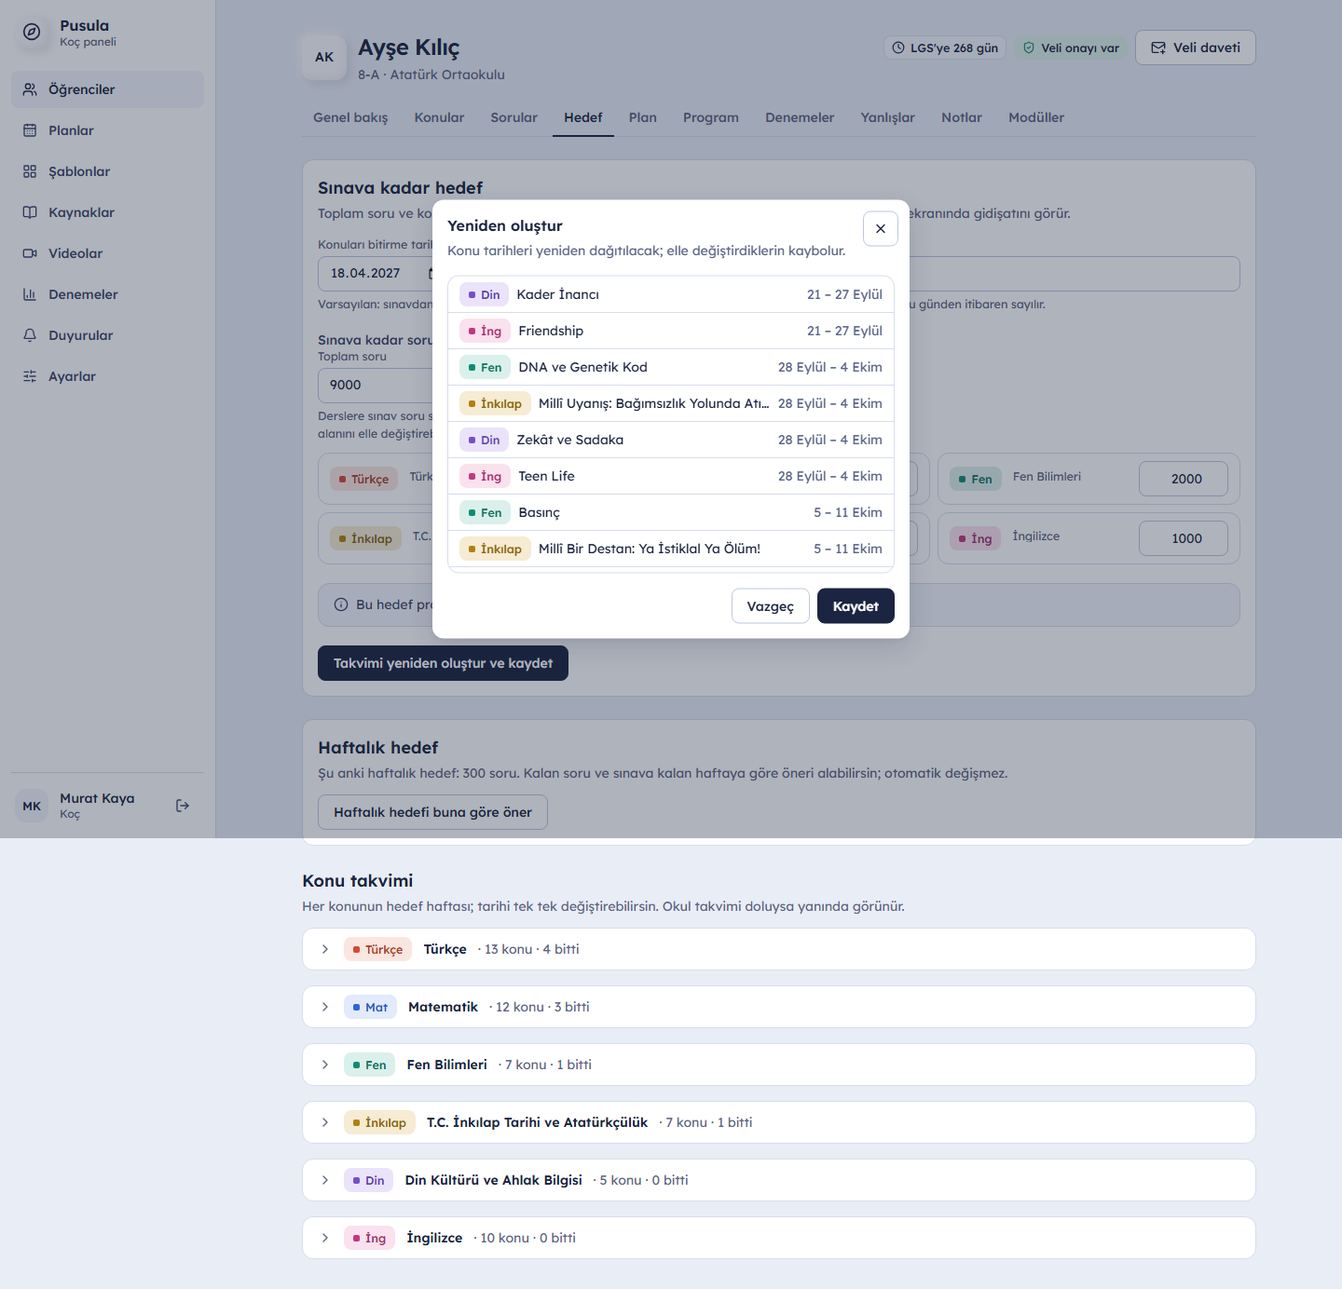
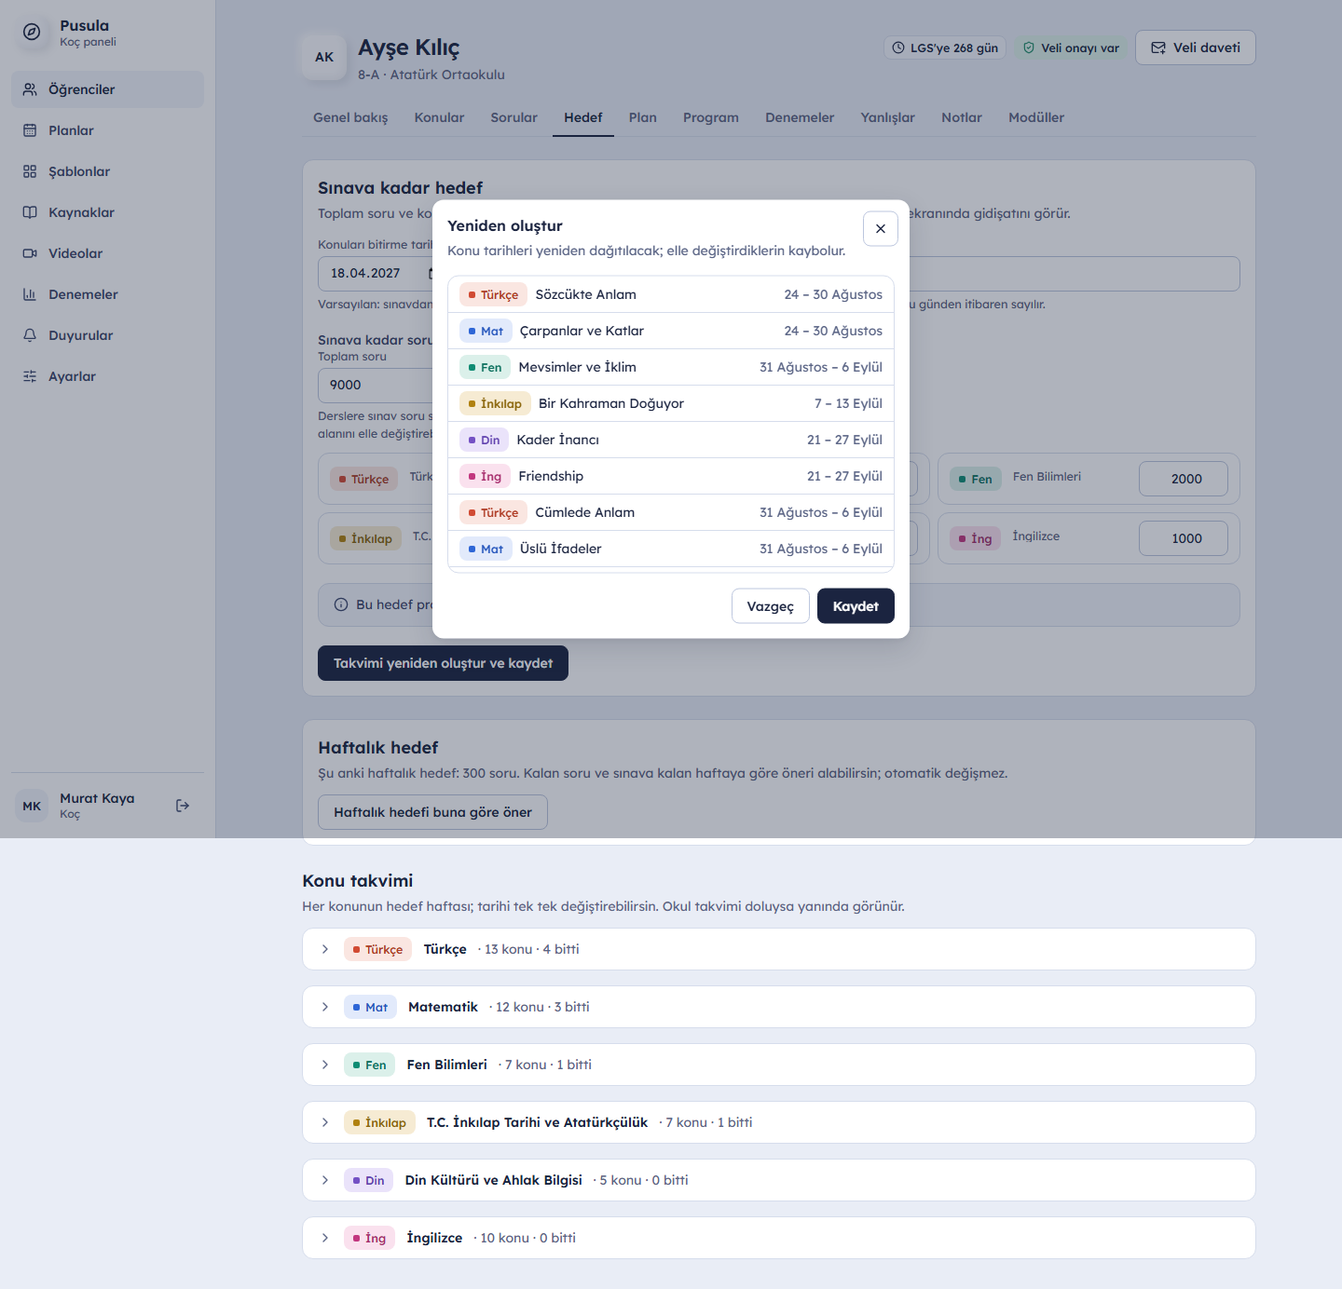
fix(strategy, goals): geri planlama bitmiş konulara da hedef verir — backPlanTopics tüm ünite konularını sıraya alır (bitmiş yuva tüketir), bitmişin hedefi completedAt günü (aralığa kırpılır, İstanbul günü), yoksa yuva tarihi; TargetForm completedAt geçirir; K2 ders tablosu sütunu 'Konu (bitti / bug

Changed region(s): [[0.3438, 0.2175, 0.6562, 0.435]]

diff --git a/src/lib/strategy/back-plan.ts b/src/lib/strategy/back-plan.ts
@@ -1,14 +1,16 @@
 import { TZDate } from "@date-fns/tz";
 import { addDays, differenceInCalendarDays } from "date-fns";
-import { TIME_ZONE, toDateKey } from "@/lib/dates";
+import { TIME_ZONE, toDateKey, toIstanbul } from "@/lib/dates";
 
 /**
- * Geri planlama (09-faz5-strateji.md §2 Parça 2, karar B5): bitmemiş konular
+ * Geri planlama (09-faz5-strateji.md §2 Parça 2, karar B5): tüm ünite konuları (bitmişler dahil)
  * `[startsOn, finishBy]` aralığına gün çözünürlüğünde eşit yayılır. Sıra: okul tarihi dolu olanlar
  * tarih sırasıyla önce, kalanlar dersler arası sıra-sıra (Türkçe 1, Mat 1, Fen 1, …, Türkçe 2, …).
  * Okul kelepçesi: okul tarihi olan konunun hedefi okul tarihinden (haftasından) önce olamaz —
  * `max(yayılım, okul)`, `finishBy` ile sınırlı; sıralama ve diğer konuların yayılımı değişmez. Koç
- * tek tek düzenleyerek yine öne alabilir. Saf; `features/*` import etmez.
+ * tek tek düzenleyerek yine öne alabilir. Bitmiş konu sıradaki yerini (yuvasını) alır; hedefi
+ * `completedAt` varsa o gün (aralığa kırpılır: beklenen sayımına doğal girer, "Hedef yok" satırı
+ * kalmaz), yoksa yuvasının tarihi. Saf; `features/*` import etmez.
  */
 
 export type BackPlanTopic = {
@@ -18,6 +20,8 @@ export type BackPlanTopic = {
   topicSortOrder: number;
   schoolFinishOn: string | null;
   done: boolean;
+  /** Bitiş zaman damgası (ISO; `student_topic_progress.completed_at`); bitmemişse ya da yoksa null. */
+  completedAt: string | null;
 };
 
 export type TopicTargetDate = { topicId: string; targetOn: string };
@@ -51,23 +55,28 @@ export function backPlanTopics(input: {
   finishBy: string;
 }): TopicTargetDate[] {
   if (input.finishBy < input.startsOn) return [];
-  const pending = input.topics.filter((t) => !t.done);
-  const withSchool = pending
+  const withSchool = input.topics
     .filter((t) => t.schoolFinishOn !== null)
     .sort((a, b) => a.schoolFinishOn!.localeCompare(b.schoolFinishOn!) || bySubjectThenTopic(a, b));
-  const ordered = [...withSchool, ...roundRobin(pending.filter((t) => t.schoolFinishOn === null))];
+  const ordered = [
+    ...withSchool,
+    ...roundRobin(input.topics.filter((t) => t.schoolFinishOn === null)),
+  ];
   const n = ordered.length;
   if (n === 0) return [];
 
   const start = new TZDate(input.startsOn, TIME_ZONE);
   const days = differenceInCalendarDays(new TZDate(input.finishBy, TIME_ZONE), start);
+  const clampToRange = (date: string) =>
+    date < input.startsOn ? input.startsOn : date > input.finishBy ? input.finishBy : date;
   return ordered.map((t, i) => {
+    if (t.done && t.completedAt !== null) {
+      return { topicId: t.topicId, targetOn: clampToRange(toDateKey(toIstanbul(t.completedAt))) };
+    }
     const spread = toDateKey(addDays(start, Math.floor(((i + 1) * days) / n)));
     const clamped =
       t.schoolFinishOn !== null && t.schoolFinishOn > spread
-        ? t.schoolFinishOn < input.finishBy
-          ? t.schoolFinishOn
-          : input.finishBy
+        ? clampToRange(t.schoolFinishOn)
         : spread;
     return { topicId: t.topicId, targetOn: clamped };
   });

diff --git a/src/lib/strategy/back-plan.test.ts b/src/lib/strategy/back-plan.test.ts
@@ -14,6 +14,7 @@ const t = (
   topicSortOrder,
   schoolFinishOn: null,
   done: false,
+  completedAt: null,
   ...over,
 });
 
@@ -37,19 +38,44 @@ describe("backPlanTopics", () => {
     ]);
   });
 
-  it("okul tarihi dolu konular tarih sırasıyla önce gelir; bitmiş konular dışarıda", () => {
+  it("okul tarihi dolu konular tarih sırasıyla önce gelir", () => {
     const out = backPlanTopics({
       topics: [
         t("t1", "tr", 1, 1),
         t("m1", "mat", 2, 1, { schoolFinishOn: "2026-09-10" }),
         t("f1", "fen", 3, 1, { schoolFinishOn: "2026-09-07" }),
-        t("t2", "tr", 1, 2, { done: true }),
       ],
       startsOn: "2026-09-14",
       finishBy: "2026-09-17", // 3 gün, 3 konu → 1, 2, 3. gün (okul tarihleri geçmiş, kelepçe yok)
     });
     expect(out.map((o) => o.topicId)).toEqual(["f1", "m1", "t1"]);
     expect(out.map((o) => o.targetOn)).toEqual(["2026-09-15", "2026-09-16", "2026-09-17"]);
+  });
+
+  it("bitmiş konu sıradaki yuvasını alır; hedefi completedAt günü (aralığa kırpılır), yoksa yuva", () => {
+    const out = backPlanTopics({
+      topics: [
+        t("t1", "tr", 1, 1, { done: true, completedAt: "2026-09-15T20:30:00+03:00" }),
+        t("t2", "tr", 1, 2, { done: true, completedAt: "2026-09-01T10:00:00+03:00" }), // başlangıçtan önce
+        t("t3", "tr", 1, 3, { done: true }), // completedAt yok → yuva
+        t("t4", "tr", 1, 4),
+      ],
+      startsOn: "2026-09-14",
+      finishBy: "2026-09-22", // 8 gün, 4 konu → 2, 4, 6, 8. gün
+    });
+    expect(out).toEqual([
+      { topicId: "t1", targetOn: "2026-09-15" },
+      { topicId: "t2", targetOn: "2026-09-14" },
+      { topicId: "t3", targetOn: "2026-09-20" },
+      { topicId: "t4", targetOn: "2026-09-22" }, // bitmişler yuva tükettiği için son yuva
+    ]);
+    // completedAt UTC gece yarısı sınırı İstanbul gününe göre okunur (21:30Z = ertesi gün 00:30 İstanbul).
+    const edge = backPlanTopics({
+      topics: [t("a", "s", 1, 1, { done: true, completedAt: "2026-09-15T21:30:00Z" })],
+      startsOn: "2026-09-14",
+      finishBy: "2026-09-30",
+    });
+    expect(edge).toEqual([{ topicId: "a", targetOn: "2026-09-16" }]);
   });
 
   it("okul kelepçesi: hedef okul tarihinden önce olamaz; finishBy ile sınırlı; diğerleri değişmez", () => {
@@ -93,7 +119,7 @@ describe("backPlanTopics", () => {
     expect(same.map((o) => o.targetOn)).toEqual(["2026-09-14", "2026-09-14"]);
   });
 
-  it("bitiş başlangıçtan önce ya da bitmemiş konu yoksa boş dizi", () => {
+  it("bitiş başlangıçtan önce ya da konu yoksa boş dizi", () => {
     expect(
       backPlanTopics({
         topics: [t("a", "s", 1, 1)],
@@ -101,12 +127,8 @@ describe("backPlanTopics", () => {
         finishBy: "2026-09-13",
       }),
     ).toEqual([]);
-    expect(
-      backPlanTopics({
-        topics: [t("a", "s", 1, 1, { done: true })],
-        startsOn: "2026-09-14",
-        finishBy: "2026-10-14",
-      }),
-    ).toEqual([]);
+    expect(backPlanTopics({ topics: [], startsOn: "2026-09-14", finishBy: "2026-10-14" })).toEqual(
+      [],
+    );
   });
 });

diff --git a/src/lib/strategy/pace.ts b/src/lib/strategy/pace.ts
@@ -6,7 +6,9 @@ import { formatCount, formatPossessive, formatSigned, withUnit } from "@/lib/for
 /**
  * Gidişat (09 §2 Parça 2, §3.1 tanımları; net takvim konumu): bitmiş = completed | mastered
  * (çağıran `done` verir); beklenen = hedefi bugün ya da öncesi olan konular (bitmiş olsun olmasın;
- * hedefsiz bitmiş konular takvimin önündedir, beklenene girmez); geride = max(0, beklenen − bitmiş);
+ * geri planlama bitmiş konuya da hedef verir — `completedAt` günü — bu yüzden yeniden üretimden sonra
+ * bitmişler beklenene girer; hedefinden önce bitirilen ya da hedefsiz bitmiş konu takvimin önündedir,
+ * beklenene girmez); geride = max(0, beklenen − bitmiş);
  * ileride = max(0, bitmiş − beklenen); hız = son `windowDays` günde biten × 7 / pencere. Konu
  * bazlı "hedefi geçti" bilgisi listede ayrıca verilir. Saf; `features/*` import etmez.
  */

diff --git a/src/lib/strategy/pace.test.ts b/src/lib/strategy/pace.test.ts
@@ -38,8 +38,9 @@ describe("topicPace", () => {
     expect(paceLabel(p, true)).toBe(`${MINUS}3${NBSP}konu`);
   });
 
-  it("hedefsiz bitmiş konular takvimin önündedir: beklenene girmez, ileriye sayılır", () => {
+  it("hedefsiz bitmiş konular (ör. hedef kurulduktan sonra şablona eklenen) takvimin önündedir: beklenene girmez, ileriye sayılır", () => {
     // 9 bitmiş (hedefsiz), 4 hedefi geçmiş bitmemiş konu → net +5 (çelişkili "9 bitti, 4 geride" yok).
+    // Yeniden üretim bitmişlere completedAt günü hedef verdiği için olağan durumda bitmişler beklenene girer.
     const p = topicPace(
       [
         ...Array.from({ length: 9 }, (_, i) => t(`d${i}`, { done: true, completedAt: ago(50) })),

diff --git a/src/features/goals/components/subject-pace-table.tsx b/src/features/goals/components/subject-pace-table.tsx
@@ -38,7 +38,9 @@ export function SubjectPaceTable({ targets, pace }: { targets: StudentTargets; p
           <thead className="text-left text-micro-lg text-ink-500">
             <tr className="border-b border-line">
               <th className="py-2 pr-3 font-medium">Ders</th>
-              <th className="px-3 py-2 text-right font-medium">Konu (bitti / planlanan)</th>
+              <th className="px-3 py-2 text-right font-medium">
+                Konu (bitti / bugüne kadar hedeflenen)
+              </th>
               <th className="px-3 py-2 text-right font-medium">Soru (gerçekleşen / hedef)</th>
               <th className="py-2 pl-3 font-medium">Tahmini bitiş</th>
             </tr>

diff --git a/src/features/goals/components/target-form.tsx b/src/features/goals/components/target-form.tsx
@@ -112,6 +112,7 @@ export function TargetForm({
         topicSortOrder: t.sortOrder,
         schoolFinishOn: t.schoolFinishOn,
         done: t.done,
+        completedAt: t.completedAt,
       })),
       startsOn: values.startsOn,
       finishBy: values.topicsFinishBy,

diff --git a/docs/09-faz5-strateji.md b/docs/09-faz5-strateji.md
@@ -124,7 +124,7 @@ student_topic_targets (
 
 | Fonksiyon | Tür | Ne yapar |
 |---|---|---|
-| `set_student_targets(p_student_id uuid, p_topics_finish_by date, p_starts_on date, p_subject_targets jsonb, p_topic_targets jsonb)` | security definer; ilk satır `is_coach_of` | Tek transaction: `students.topics_finish_by / target_starts_on` günceller; `student_subject_targets` satırlarını payload ile değiştirir (`[{subject_id, questions}]`; payload'da olmayan ders silinir); `student_topic_targets` upsert (`[{topic_id, target_on}]`) ve payload'da olmayan satırlar silinir (yeniden üretimde bitmiş konuların eski hedefi temizlenir). Konu/ders öğrencinin şablonunda değilse `invalid_target` hatası, hiçbir şey yazılmaz. Döner `{subjects int, topics int}` |
+| `set_student_targets(p_student_id uuid, p_topics_finish_by date, p_starts_on date, p_subject_targets jsonb, p_topic_targets jsonb)` | security definer; ilk satır `is_coach_of` | Tek transaction: `students.topics_finish_by / target_starts_on` günceller; `student_subject_targets` satırlarını payload ile değiştirir (`[{subject_id, questions}]`; payload'da olmayan ders silinir); `student_topic_targets` upsert (`[{topic_id, target_on}]`) ve payload'da olmayan satırlar silinir (yeniden üretimde bitmişler dahil tüm ünite konuları payload'dadır; şablondan kalkan konunun satırı temizlenir). Konu/ders öğrencinin şablonunda değilse `invalid_target` hatası, hiçbir şey yazılmaz. Döner `{subjects int, topics int}` |
 
 Tek konunun tarihini düzenlemek RPC gerektirmez: koç `student_topic_targets` satırını RLS ile günceller (`updateTopicTarget` eylemi, tek tablo). Haftalık hedef önerisi (karar B13) mevcut `goals` yoluyla yazılır (`setGoals`), otomatik değil.
 
@@ -209,13 +209,15 @@ export function schoolLagWeeks(schoolFinishOn: string, today: string): number;  
 // src/lib/strategy/back-plan.ts
 export function backPlanTopics(input: {
   topics: readonly { topicId: string; subjectId: string; subjectSortOrder: number; topicSortOrder: number;
-                     schoolFinishOn: string | null; done: boolean }[];
+                     schoolFinishOn: string | null; done: boolean; completedAt: string | null }[];
   startsOn: string; finishBy: string;
 }): { topicId: string; targetOn: string }[];
-// bitmemiş konular; sıra: schoolFinishOn dolu olanlar tarih sırasıyla önce, sonra dersler arası sıra-sıra
+// tüm ünite konuları (bitmişler dahil; Faz 5 kapanış düzeltmesi); sıra: schoolFinishOn dolu olanlar tarih sırasıyla önce, sonra dersler arası sıra-sıra
 // (Türkçe 1, Mat 1, Fen 1, …, Türkçe 2, …); [startsOn, finishBy] arasına eşit yayılım (i × gün / n, pazartesiye
 // yuvarlanmaz; gün çözünürlüğü); okul kelepçesi (karar B5, güncel): okul tarihi olan konunun hedefi
 // max(yayılım, okul tarihi), finishBy ile sınırlı — sıralama ve diğer konuların yayılımı değişmez, koç tek tek öne alabilir;
+// bitmiş konu sıradaki yuvasını alır (yayılım n = tüm konular); hedefi completedAt varsa o gün (aralığa kırpılır), yoksa yuva
+// tarihi → beklenen sayımına doğal girer, "Hedef yok" satırı kalmaz, ders tablosunda bugüne kadar hedeflenen ≥ bitti;
 // finishBy < startsOn → boş dizi (form zaten engeller)
 
 // src/lib/strategy/split.ts
@@ -253,7 +255,7 @@ export function paceSentence(p: TopicPace, hasTargets: boolean): string;
 export function paceLabel(p: Pick<TopicPace, "overdue" | "ahead">, hasTargets: boolean): string;   // K1: "−3 konu" · "+2 konu" · "Uyumlu" · "—"
 ```
 
-Testler: sıralama (okul tarihi önce, sıra-sıra), eşit yayılım uçları, bitmiş konu dışarıda; dağılımın toplamı ve kalan yöntemi; gerçekçilik sığıyor/sığmıyor ve hafta tabanı 1; gidişat: geride/ileride/uyumlu/hedefsiz, hız 0, pencere sınırı, sınav tarihi yok (shortfall 0, projected null).
+Testler: sıralama (okul tarihi önce, sıra-sıra), eşit yayılım uçları, bitmiş konu yuva alır ve completedAt günü / yuva tarihi (aralığa kırpma, İstanbul günü); dağılımın toplamı ve kalan yöntemi; gerçekçilik sığıyor/sığmıyor ve hafta tabanı 1; gidişat: geride/ileride/uyumlu/hedefsiz, hız 0, pencere sınırı, sınav tarihi yok (shortfall 0, projected null).
 
 **Kabul:** Koç hedefi kurunca 54 konu tarihi yazılır (pgTAP + e2e); gerçekçilik cümlesi program değişince değişir (e2e); öğrenci Bugün'de tek cümle + ince çubuk, uyarı rengi yok (e2e + ekran görüntüsü); K1 "Takvim" sütunu ve K2 tablo dolu (e2e); haftalık hedef önerisi düğmeyle uygulanır (e2e); saf fonksiyonların her dalı birim testli; `pnpm check` + `pnpm db:test` yeşil.
 
@@ -330,7 +332,7 @@ export type Placement = { dayOfWeek: number | null; date?: string; suggestion: S
 | `pace.ts` | `topicPace`, `subjectPace`, `paceSentence`, `paceLabel` | topics (Bugün kartı), core (K1 sütunu), goals/analytics (K2) |
 | `mix.ts` | `mixCategoryOf`, `allocateByMix` | analytics |
 
-Hepsi yapısal tip alır (`features/*` import etmez), tarih hesapları `lib/dates` ile (İstanbul, hafta pazartesi), metinler `lib/format` ile. Tanımlar tek yerde (net takvim konumu; 2026-09-18 düzeltmesi): **bitmiş** = `completed | mastered`; **beklenen** = hedefi bugün ya da öncesi olan konular (bitmiş olsun olmasın; hedefsiz bitmiş konular takvimin önündedir, beklenene girmez); **geride** = max(0, beklenen − bitmiş); **ileride** = max(0, bitmiş − beklenen); **hız** = son `pace_window_days`'de biten konu × 7 / pencere. Konu bazlı "hedefi geçti" (hedefi bugün ya da öncesi ve bitmemiş) yalnızca Hedef sekmesindeki listede rozet ve ders özetindeki "N gecikmiş" sayısıdır; gidişat cümlesi, K1 sütunu ve K2 kutusu net konumu kullanır ("9 konu bitmiş ama 4 konu geride" gibi çelişkili durum yok).
+Hepsi yapısal tip alır (`features/*` import etmez), tarih hesapları `lib/dates` ile (İstanbul, hafta pazartesi), metinler `lib/format` ile. Tanımlar tek yerde (net takvim konumu; 2026-09-18 düzeltmesi): **bitmiş** = `completed | mastered`; **beklenen** = hedefi bugün ya da öncesi olan konular (bitmiş olsun olmasın; geri planlama bitmişlere de hedef verdiği — `completed_at` günü — için yeniden üretimden sonra bitmişler beklenene girer; hedefinden önce bitirilen ya da hedefsiz bitmiş konu takvimin önündedir, beklenene girmez); **geride** = max(0, beklenen − bitmiş); **ileride** = max(0, bitmiş − beklenen); **hız** = son `pace_window_days`'de biten konu × 7 / pencere. Konu bazlı "hedefi geçti" (hedefi bugün ya da öncesi ve bitmemiş) yalnızca Hedef sekmesindeki listede rozet ve ders özetindeki "N gecikmiş" sayısıdır; gidişat cümlesi, K1 sütunu ve K2 kutusu net konumu kullanır ("9 konu bitmiş ama 4 konu geride" gibi çelişkili durum yok). K2 ders tablosu sütunu "Konu (bitti / bugüne kadar hedeflenen)": ikinci sayı beklenen; bitmişler hedefli olduğu için ≥ bitti. Faz 5 kapanış düzeltmesi (2026-09-18): önceki sürüm bitmiş konulara hedef vermiyordu → "4 / 0" satırları, listede "Hedef yok", her bitmiş konu ileride sayılıyordu ("takvimin 9 konu ilerisinde").
 
 ### 3.2 Yazım ve renk
 

diff --git a/docs/03-veri-modeli.md b/docs/03-veri-modeli.md
@@ -396,7 +396,7 @@ student_topic_targets (
 -- index (topic_id), (created_by)
 ```
 
-RLS: standart öğrenci verisi kalıbı (§5.2): öğrenci S, koç S I U D (`is_coach_of`; `student_topic_targets.created_by` kendisi), veli S, owner tümü; tablo yetkisi `authenticated` S I U D. `students.topics_finish_by / target_starts_on` kolon grant'ı yok → yalnızca `set_student_targets` (security definer) yazar (§5.3 seçenek (a)); `wake_start / wake_end` kolon grant'ı var (koç Program sekmesinden, `setWakeWindow`). Gidişat tanımları (`lib/strategy/pace.ts`, net takvim konumu): bitmiş = `completed | mastered`; beklenen = hedefi bugün ya da öncesi olan konular (bitmiş olsun olmasın; hedefsiz bitmiş konular beklenene girmez); geride = max(0, beklenen − bitmiş); ileride = max(0, bitmiş − beklenen); hız = son `strategy.pace_window_days`'de biten × 7 / pencere. Geri planlama (`lib/strategy/back-plan.ts`) okul tarihi olan konunun hedefini okul tarihinden önceye koymaz (karar B5, kelepçe; bitiş tarihiyle sınırlı). Görünümler `faz5b_pace_net` ile bu tanıma geçti.
+RLS: standart öğrenci verisi kalıbı (§5.2): öğrenci S, koç S I U D (`is_coach_of`; `student_topic_targets.created_by` kendisi), veli S, owner tümü; tablo yetkisi `authenticated` S I U D. `students.topics_finish_by / target_starts_on` kolon grant'ı yok → yalnızca `set_student_targets` (security definer) yazar (§5.3 seçenek (a)); `wake_start / wake_end` kolon grant'ı var (koç Program sekmesinden, `setWakeWindow`). Gidişat tanımları (`lib/strategy/pace.ts`, net takvim konumu): bitmiş = `completed | mastered`; beklenen = hedefi bugün ya da öncesi olan konular (bitmiş olsun olmasın); geride = max(0, beklenen − bitmiş); ileride = max(0, bitmiş − beklenen); hız = son `strategy.pace_window_days`'de biten × 7 / pencere. Geri planlama bitmiş konulara da hedef yazar (sıradaki yuvasını alır; hedef `completed_at` günü, yoksa yuva tarihi; 2026-09-18 Faz 5 kapanış düzeltmesi), bu yüzden yeniden üretimden sonra bitmişler beklenene girer, ders tablosunda "bugüne kadar hedeflenen" ≥ bitti olur ve listede "Hedef yok" satırı kalmaz; hedefinden önce bitirilen konu hedef tarihi gelene kadar ileridedir. Geri planlama (`lib/strategy/back-plan.ts`) okul tarihi olan konunun hedefini okul tarihinden önceye koymaz (karar B5, kelepçe; bitiş tarihiyle sınırlı). Görünümler `faz5b_pace_net` ile bu tanıma geçti.
 
 ### 4.4c Notlar, Duyurular (taslak; ayrı planlanacak)
 
@@ -912,5 +912,5 @@ Yüklemeden önce istemcide en uzun kenar 1600 px'e indirilir ve WebP'ye çevril
 
 ## 9. Seed Verisi
 
-- `supabase/seed.sql` (sadece yerel): 1 kurum, 1 owner, 1 koç, 3 öğrenci (farklı performans profilleri), 2 veli (Faz 1a ✅); Ayşe için son 14 günde soru kayıtları (3 boş gün, İstanbul gününe göre) ve günlük 60 / haftalık 300 hedef (Faz 3 ✅); demo kurumun sezon dönemleri dolu (Faz 5a ✅); Ayşe'nin sınava kadar hedefi kurulu (9.000 soru derslere orantılı, konuları bitirme tarihi sınav − 8 hafta, başlangıç 20 gün önce, bitmemiş konular okul kelepçesiyle eşit yayılmış → takvimin önünde) ve sistem şablonunda okul takvimi bu haftadan itibaren haftada bir konu (gelecek tarihler, `behind_school` üretmez; Faz 5b ✅); Mehmet takvimin gerisinde örnek: hedef 6 hafta önce kurulu (6.000 soru), Türkçe/Matematik/Fen'in ilk iki konusu koçça öne alınmış (3 ve 1 hafta önce) ve başlanmamış → 6 konu "Hedef geçti", K1/K2 geride, soru kaydı yok → her derste soru hedefinin gerisinde (Faz 5c ✅); LGS 2027 şablonu migration'da; 2 kaynak, 1 oynatma listesi, 4 deneme sonucu (ilgili fazlarda). `auth.users` + `auth.identities` satırları doğrudan yazılır (GoTrue token kolonları `''`). Demo şifre (`pusula-demo`) yalnızca yerel olduğu notuyla `seed.sql` başında ve README "Geliştirme" bölümündedir; öğrenci sentetik e-postası yerelde `<kullaniciadi>@ogrenci.pusula.local`.
+- `supabase/seed.sql` (sadece yerel): 1 kurum, 1 owner, 1 koç, 3 öğrenci (farklı performans profilleri), 2 veli (Faz 1a ✅); Ayşe için son 14 günde soru kayıtları (3 boş gün, İstanbul gününe göre) ve günlük 60 / haftalık 300 hedef (Faz 3 ✅); demo kurumun sezon dönemleri dolu (Faz 5a ✅); Ayşe'nin sınava kadar hedefi kurulu (9.000 soru derslere orantılı, konuları bitirme tarihi sınav − 8 hafta, başlangıç 20 gün önce, tüm ünite konuları okul kelepçesiyle eşit yayılmış, bitmişlerin hedefi `completed_at` günü → takvimle uyumlu) ve sistem şablonunda okul takvimi bu haftadan itibaren haftada bir konu (gelecek tarihler, `behind_school` üretmez; Faz 5b ✅); Mehmet takvimin gerisinde örnek: hedef 6 hafta önce kurulu (6.000 soru), Türkçe/Matematik/Fen'in ilk iki konusu koçça öne alınmış (3 ve 1 hafta önce) ve başlanmamış → 6 konu "Hedef geçti", K1/K2 geride, soru kaydı yok → her derste soru hedefinin gerisinde (Faz 5c ✅); LGS 2027 şablonu migration'da; 2 kaynak, 1 oynatma listesi, 4 deneme sonucu (ilgili fazlarda). `auth.users` + `auth.identities` satırları doğrudan yazılır (GoTrue token kolonları `''`). Demo şifre (`pusula-demo`) yalnızca yerel olduğu notuyla `seed.sql` başında ve README "Geliştirme" bölümündedir; öğrenci sentetik e-postası yerelde `<kullaniciadi>@ogrenci.pusula.local`.
 - `supabase/seeds/lgs-2027-template.sql`: Üretimde bir kez çalıştırılan sistem şablonu (`05-lgs-2027-sablonu.md` içeriği).
